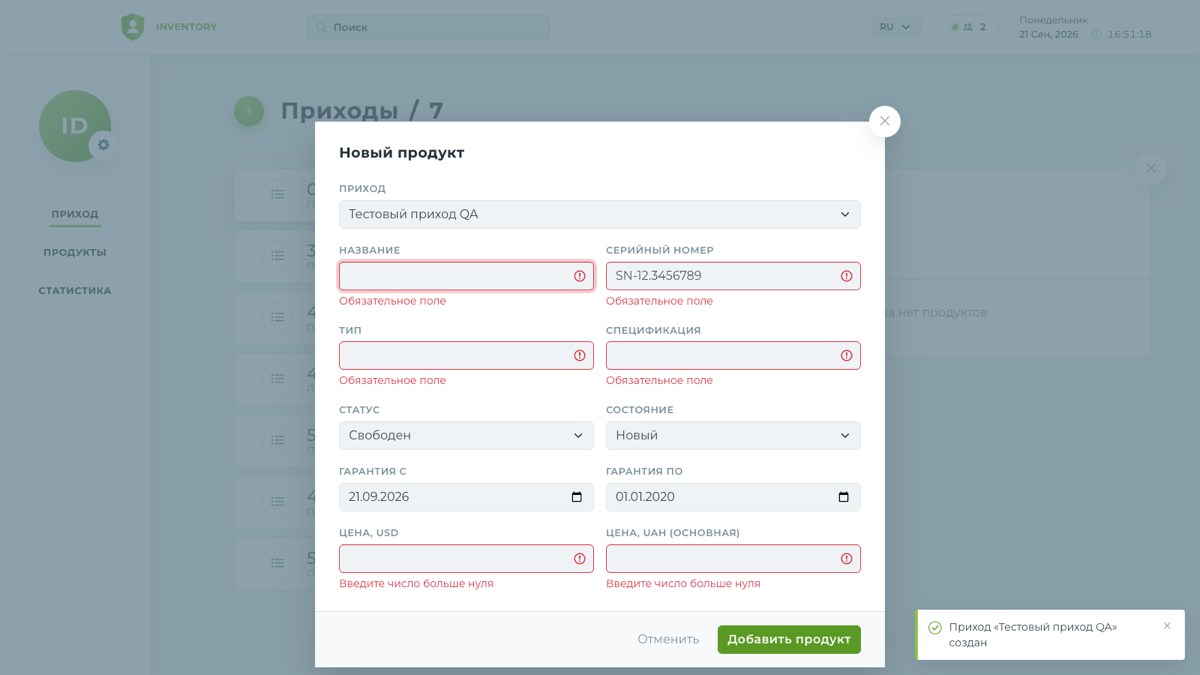
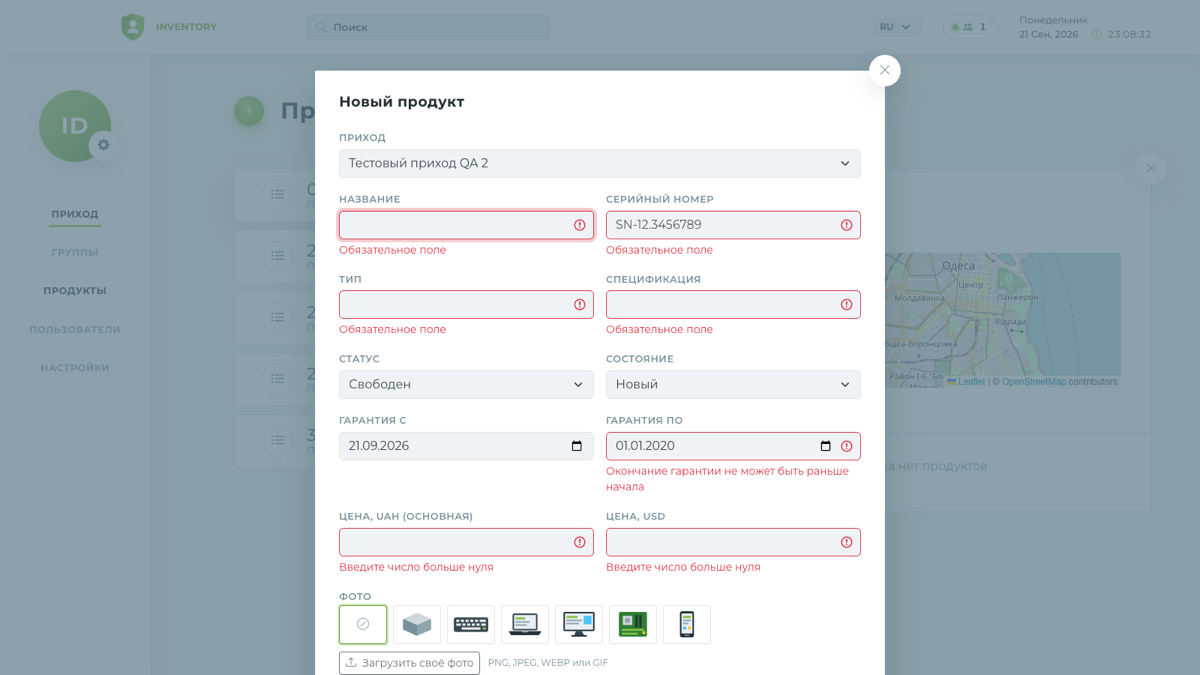
chore: smaller demo data, validate forms on submit
Demo data is reduced to 4 orders and 9 products. Forms validate on submit and
re-validate on change, so a blur error no longer shifts the submit button under
the cursor, and the guarantee check runs together with the other fields.

diff --git a/client/src/lib/validation.ts b/client/src/lib/validation.ts
@@ -46,8 +46,10 @@ export const makeProductFormSchema = (currencies: readonly string[]) =>
       photo: z.string().nullable(),
       prices: z.object(Object.fromEntries(currencies.map((currency) => [currency, positiveNumber]))),
     })
-    .refine((values) => !values.guaranteeStart || !values.guaranteeEnd || values.guaranteeEnd >= values.guaranteeStart, {
+    .refine((values) => values.guaranteeEnd >= values.guaranteeStart, {
       message: 'guaranteeOrder',
       path: ['guaranteeEnd'],
+      // Check the dates even while other fields are still invalid, so all errors show on the first submit.
+      when: ({ issues }) => !issues.some((issue) => ['guaranteeStart', 'guaranteeEnd'].includes(String(issue.path?.[0]))),
     });
 export type ProductFormValues = z.infer<ReturnType<typeof makeProductFormSchema>>;

diff --git a/client/src/lib/validation.test.ts b/client/src/lib/validation.test.ts
@@ -64,6 +64,11 @@ describe('makeProductFormSchema', () => {
     expect(messages(result)).toEqual({ guaranteeEnd: 'guaranteeOrder' });
   });
 
+  it('reports the guarantee order together with other field errors', () => {
+    const result = productFormSchema.safeParse({ ...valid, title: '', guaranteeEnd: '2025-01-01' });
+    expect(messages(result)).toEqual({ title: 'required', guaranteeEnd: 'guaranteeOrder' });
+  });
+
   it('requires a positive price in every configured currency and an order', () => {
     const result = productFormSchema.safeParse({ ...valid, order: '', prices: { UAH: 0 } });
     expect(messages(result)).toEqual({ order: 'order', 'prices.UAH': 'positive', 'prices.USD': 'positive' });

diff --git a/client/src/components/modals/ProductFormModal.tsx b/client/src/components/modals/ProductFormModal.tsx
@@ -61,7 +61,8 @@ export default function ProductFormModal({ id, orderId }: ProductForm) {
     formState: { errors, isSubmitting },
   } = useForm<ProductFormValues>({
     resolver: zodResolver(schema),
-    mode: 'onTouched',
+    mode: 'onSubmit',
+    reValidateMode: 'onChange',
     defaultValues,
   });
   const photo = useWatch({ control: formControl, name: 'photo' });

diff --git a/client/src/components/auth/LoginForm.tsx b/client/src/components/auth/LoginForm.tsx
@@ -31,7 +31,8 @@ export default function LoginForm({ next, demo }: { next?: string; demo?: DemoCr
     formState: { errors, isSubmitting },
   } = useForm<LoginValues>({
     resolver: zodResolver(loginSchema),
-    mode: 'onTouched',
+    mode: 'onSubmit',
+    reValidateMode: 'onChange',
     defaultValues: { email: '', password: '' },
   });
 

diff --git a/client/src/components/modals/OrderFormModal.tsx b/client/src/components/modals/OrderFormModal.tsx
@@ -40,7 +40,8 @@ export default function OrderFormModal({ id }: { id: number | null }) {
     formState: { errors, isSubmitting },
   } = useForm<OrderFormValues>({
     resolver: zodResolver(orderFormSchema),
-    mode: 'onTouched',
+    mode: 'onSubmit',
+    reValidateMode: 'onChange',
     defaultValues,
   });
 

diff --git a/README.md b/README.md
@@ -32,7 +32,7 @@ docker compose up -d --build
 
 Откройте **http://localhost:8080** и войдите демо-пользователем.
 
-При первом запуске MySQL создаёт схему и демо-данные из `db/schema.sql` и `db/seed.sql`: 4 склада, 6 приходов, 25 продуктов. Первая сборка занимает 2–4 минуты.
+При первом запуске MySQL создаёт схему и демо-данные из `db/schema.sql` и `db/seed.sql`: 4 склада, 4 прихода, 9 продуктов. Первая сборка занимает 2–4 минуты.
 
 | Команда | Что делает |
 |---|---|
